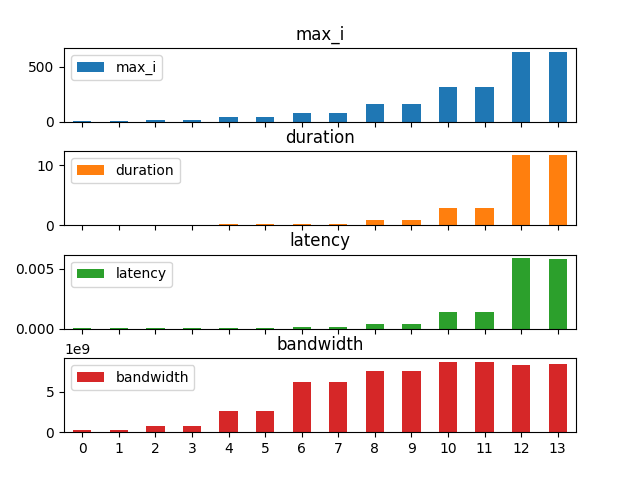
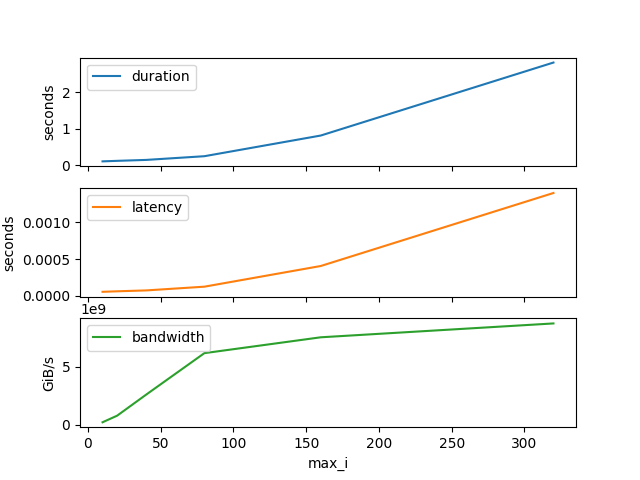
Got plotting working

diff --git a/src/plot.py b/src/plot.py
@@ -13,15 +13,24 @@ import os
 '''
 def gather_data():
     df = pd.read_csv("ping_pong.dat")
-    df.plot(kind='bar', rot=0, subplots=True)
+    #ax = df.plot.gca()
+    # df.plot(kind='bar', rot=0, subplots=True)
+    axes = df.plot.line(subplots=True, x='max_i') 
+    axes[0].set_ylabel('seconds')
+    axes[1].set_ylabel('seconds')
+    axes[2].set_ylabel('GiB/s')
+    #df.plot(kind='line', x='max_i', y='bandwidth', subplots=True)
+    #df.plot(kind='line', x='max_i', y='duration', subplots=True)
+    #df.plot(kind='line', x='max_i', y='latency', subplots=True)
     # set the spacing between subplots
-    plt.subplots_adjust(left=0.1,
-                        bottom=0.1, 
-                        right=0.9, 
-                        top=0.9, 
-                        wspace=0.4, 
-                        hspace=0.4)
+    #plt.subplots_adjust(left=0.1,
+    #                    bottom=0.1, 
+    #                    right=0.9, 
+    #                    top=0.9, 
+    #                    wspace=0.4, 
+    #                    hspace=0.4)
     #axes[1].legend(loc=2)
+    type(axes)
     plt.savefig('output.png')
     #print(data)
 
